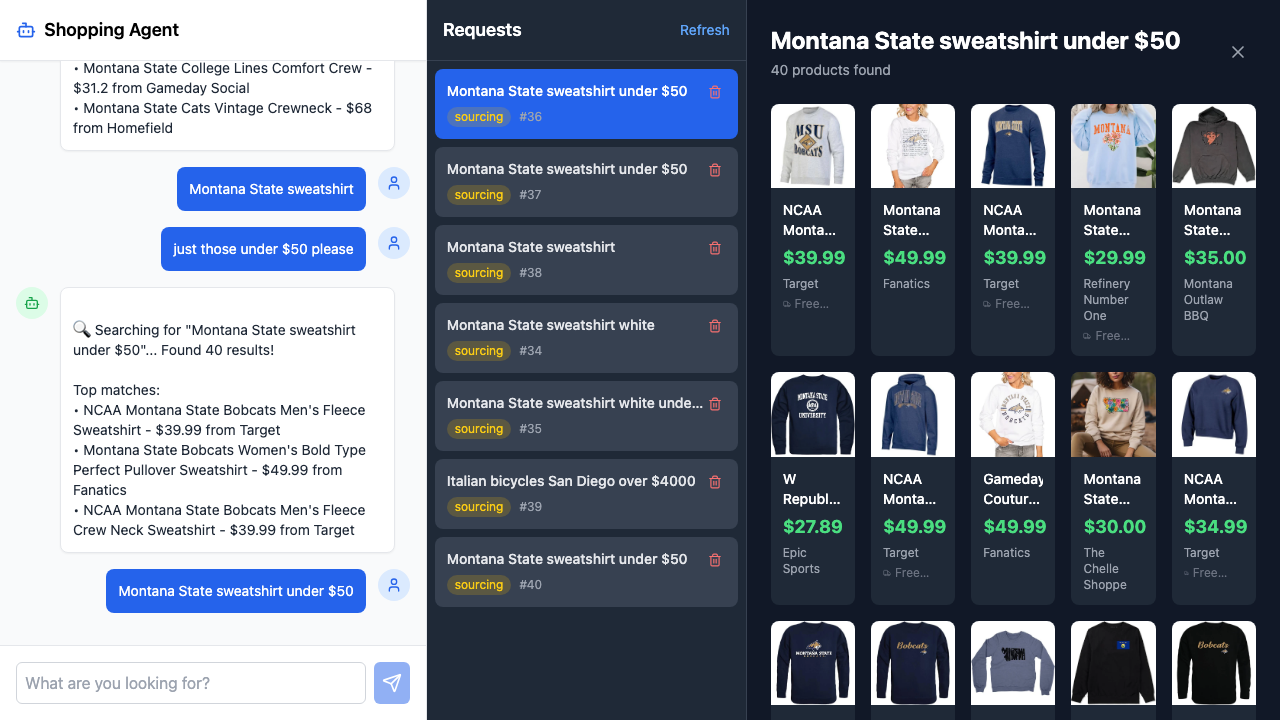
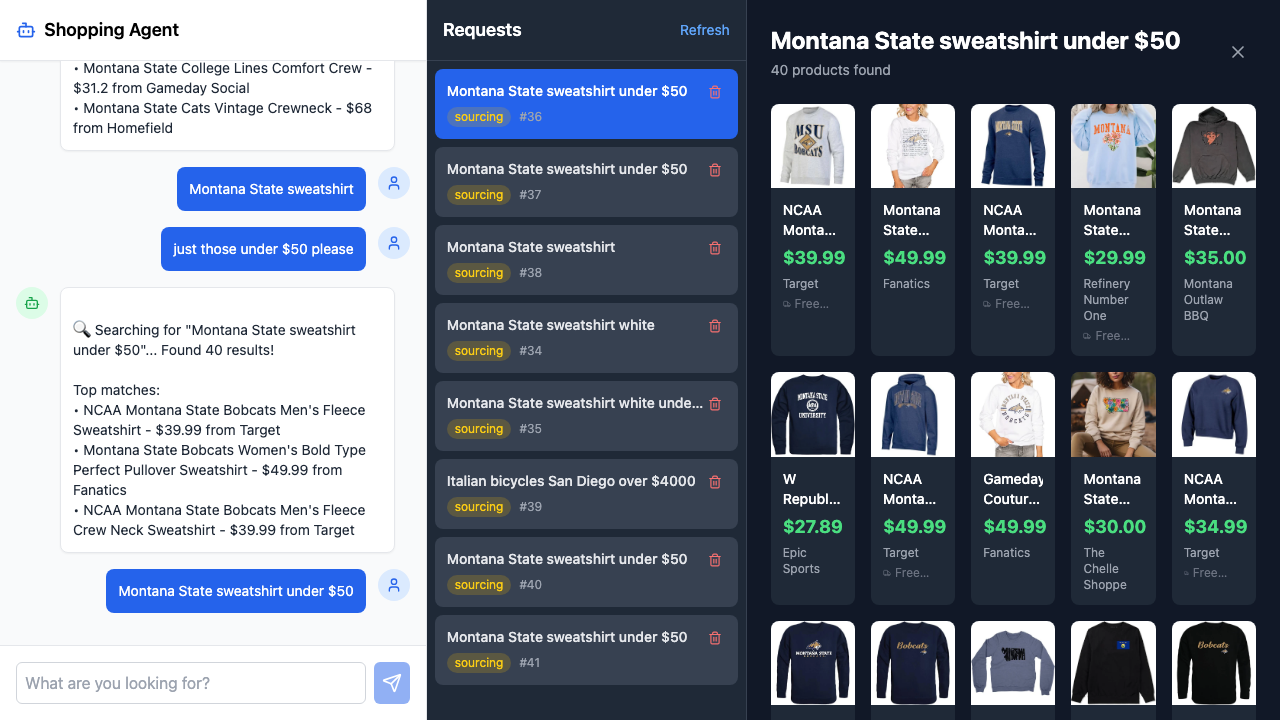
test: add regression tests for all 3 steps of Chat-Board sync flow

Changed region(s): [[0.3125, 0.8556, 0.5938, 0.9778]]

diff --git a/apps/frontend/app/components/Board.tsx b/apps/frontend/app/components/Board.tsx
@@ -1,11 +1,9 @@
 'use client';
 
-import { useState, useEffect } from 'react';
-import { Package, DollarSign, Trash2, Search, Star, Truck, X } from 'lucide-react';
-import { useShoppingStore, Row, Product } from '../store';
+import { Package, Search, Star, Truck, X } from 'lucide-react';
+import { useShoppingStore, Product } from '../store';
 
 export default function ProcurementBoard() {
-  const [loading, setLoading] = useState(true);
   const store = useShoppingStore();
 
   const selectedRow = store.rows.find(r => r.id === store.activeRowId) || null;
@@ -14,138 +12,9 @@ export default function ProcurementBoard() {
   const displayProducts = store.searchResults;
   const displayQuery = store.currentQuery || selectedRow?.title || '';
 
-  const fetchRows = async () => {
-    try {
-      const res = await fetch('/api/rows', { cache: 'no-store' });
-      if (res.ok) {
-        const data = await res.json();
-        store.setRows(Array.isArray(data) ? data : []);
-      }
-    } catch (e) {
-      console.error("Failed to fetch rows", e);
-    } finally {
-      setLoading(false);
-    }
-  };
-
-  const deleteRow = async (id: number) => {
-    try {
-      const res = await fetch(`/api/rows?id=${id}`, { method: 'DELETE' });
-      if (res.ok) {
-        store.removeRow(id);
-      }
-    } catch (e) {
-      console.error("Failed to delete row", e);
-    }
-  };
-
-  /**
-   * CARD CLICK FLOW (Step 3):
-   * 3a. User clicks a card
-   * 3b. The query is set in Zustand as the source of truth
-   * 3c. The text from the card is appended to the chat (via store update)
-   * 3d. We run the search
-   * 3e. Goto step 2 (continued chat flow)
-   */
-  const handleCardClick = async (row: Row) => {
-    if (store.activeRowId === row.id) return;
-    
-    console.log('[Board] === CARD CLICK FLOW START ===');
-    console.log('[Board] 3a. User clicked card:', row.id, row.title);
-
-    // 3b. Set query in Zustand as source of truth
-    store.setCurrentQuery(row.title);
-    store.setActiveRowId(row.id);
-    // 3c. Trigger chat append via cardClickQuery
-    store.setCardClickQuery(row.title);
-    console.log('[Board] 3b-3c. Zustand updated - query:', row.title, 'activeRowId:', row.id, 'cardClickQuery set');
-
-    // 3d. Run the search
-    console.log('[Board] 3d. Running search for:', row.title);
-    store.setIsSearching(true);
-    try {
-      const res = await fetch('/api/search', {
-        method: 'POST',
-        headers: { 'Content-Type': 'application/json' },
-        body: JSON.stringify({ query: row.title }),
-      });
-      if (res.ok) {
-        const data = await res.json();
-        console.log('[Board] Search returned:', data.results?.length || 0, 'products');
-        store.setSearchResults(data.results || []);
-      }
-    } catch (e) {
-      console.error('[Board] Search failed:', e);
-      store.setSearchResults([]);
-    }
-
-    console.log('[Board] === CARD CLICK FLOW END ===');
-    // 3e. Now the user can continue typing in chat (goto step 2)
-  };
-
-  useEffect(() => {
-    fetchRows();
-  }, []);
-
   return (
     <div className="flex-1 flex bg-gray-900 overflow-hidden">
-      {/* Left: Row List */}
-      <div className="w-80 bg-gray-800 border-r border-gray-700 flex flex-col">
-        <div className="p-4 border-b border-gray-700">
-          <div className="flex justify-between items-center">
-            <h2 className="text-lg font-semibold text-white">Requests</h2>
-            <button onClick={fetchRows} className="text-sm text-blue-400 hover:text-blue-300">
-              Refresh
-            </button>
-          </div>
-        </div>
-        
-        <div className="flex-1 overflow-y-auto p-2 space-y-2">
-          {loading && store.rows.length === 0 && (
-            <div className="text-center text-gray-500 py-10">Loading...</div>
-          )}
-
-          {!loading && store.rows.length === 0 && (
-            <div className="text-center text-gray-500 py-10">
-              <Package className="mx-auto h-8 w-8 text-gray-600 mb-2" />
-              <p className="text-sm">No requests yet</p>
-            </div>
-          )}
-
-          {store.rows.map((row: Row) => (
-            <div
-              key={row.id}
-              onClick={() => handleCardClick(row)}
-              className={`p-3 rounded-lg cursor-pointer transition-colors ${
-                selectedRow?.id === row.id 
-                  ? 'bg-blue-600 text-white' 
-                  : 'bg-gray-700 text-gray-200 hover:bg-gray-600'
-              }`}
-            >
-              <div className="flex justify-between items-start">
-                <h3 className="font-medium text-sm line-clamp-1">{row.title}</h3>
-                <button
-                  onClick={(e) => { e.stopPropagation(); deleteRow(row.id); }}
-                  className="p-1 hover:bg-red-500/20 rounded"
-                >
-                  <Trash2 size={14} className="text-red-400" />
-                </button>
-              </div>
-              <div className="flex items-center gap-2 mt-1">
-                <span className={`text-xs px-2 py-0.5 rounded-full ${
-                  row.status === 'sourcing' ? 'bg-yellow-500/20 text-yellow-400' : 
-                  row.status === 'closed' ? 'bg-green-500/20 text-green-400' : 'bg-gray-500/20 text-gray-400'
-                }`}>
-                  {row.status}
-                </span>
-                <span className="text-xs text-gray-400">#{row.id}</span>
-              </div>
-            </div>
-          ))}
-        </div>
-      </div>
-
-      {/* Right: Product Grid */}
+      {/* Product Grid */}
       <div className="flex-1 overflow-y-auto">
         {!store.currentQuery && !selectedRow && displayProducts.length === 0 && !store.isSearching ? (
           <div className="flex items-center justify-center h-full text-gray-500">

diff --git a/apps/frontend/app/components/RequestsSidebar.tsx b/apps/frontend/app/components/RequestsSidebar.tsx
@@ -1,7 +1,7 @@
 'use client';
 
 import { useState, useEffect } from 'react';
-import { Package, Trash2, ChevronLeft, ChevronRight, Menu } from 'lucide-react';
+import { Package, Trash2, ChevronLeft, Menu } from 'lucide-react';
 import { useShoppingStore, Row } from '../store';
 
 export default function RequestsSidebar() {
@@ -78,7 +78,7 @@ export default function RequestsSidebar() {
 
   if (!isExpanded) {
     return (
-      <div className="h-full bg-gray-800 border-r border-gray-700 flex flex-col items-center py-4 w-12 transition-all duration-300">
+      <div className="h-full bg-gray-800 border-r border-gray-700 flex flex-col items-center py-4 w-12 transition-all duration-300 shrink-0">
         <button 
           onClick={() => setIsExpanded(true)}
           className="p-2 text-gray-400 hover:text-white hover:bg-gray-700 rounded-lg"
@@ -91,7 +91,7 @@ export default function RequestsSidebar() {
   }
 
   return (
-    <div className="w-80 bg-gray-800 border-r border-gray-700 flex flex-col transition-all duration-300 h-full relative group">
+    <div className="w-80 bg-gray-800 border-r border-gray-700 flex flex-col transition-all duration-300 h-full relative group shrink-0">
       <div className="p-4 border-b border-gray-700">
         <div className="flex justify-between items-center">
           <h2 className="text-lg font-semibold text-white">Requests</h2>

diff --git a/apps/frontend/app/tests/chat-board-sync.test.ts b/apps/frontend/app/tests/chat-board-sync.test.ts
@@ -22,6 +22,20 @@ describe('Chat-Board Synchronization', () => {
     expect(state.activeRowId).toBe(31);
   });
 
+  test('Card click sets cardClickQuery to trigger chat append (Step 3c)', () => {
+    // Simulate card click flow from Board.tsx
+    useShoppingStore.getState().setCurrentQuery('Montana State shirts under $50');
+    useShoppingStore.getState().setActiveRowId(31);
+    useShoppingStore.getState().setCardClickQuery('Montana State shirts under $50');
+
+    const state = useShoppingStore.getState();
+    expect(state.cardClickQuery).toBe('Montana State shirts under $50');
+    
+    // After Chat.tsx processes it, it should be cleared
+    useShoppingStore.getState().setCardClickQuery(null);
+    expect(useShoppingStore.getState().cardClickQuery).toBeNull();
+  });
+
   test('selectOrCreateRow identifies existing row for extended query (Step 2)', () => {
     const store = useShoppingStore.getState();
     const rows = store.rows;

diff --git a/apps/frontend/e2e/chat-board-sync.spec.ts b/apps/frontend/e2e/chat-board-sync.spec.ts
@@ -90,8 +90,16 @@ test.describe('Chat-Board Synchronization Flow', () => {
     if (isInactiveVisible) {
       const cardTitleToClick = await inactiveCard.locator('h3').textContent({ timeout: 3000 }).catch(() => 'Unknown');
       console.log(`Clicking card: ${cardTitleToClick}`);
+      
+      // Listen for console logs
+      page.on('console', msg => {
+        if (msg.text().includes('[Chat]') || msg.text().includes('[Board]')) {
+          console.log(`BROWSER: ${msg.text()}`);
+        }
+      });
+      
       await inactiveCard.click();
-      await page.waitForTimeout(3000);
+      await page.waitForTimeout(5000); // Wait longer for state update
       
       // Verify the card's text was appended to chat
       const userMessagesAfter = await page.locator('div.bg-blue-600').count();

diff --git a/apps/frontend/app/page.tsx b/apps/frontend/app/page.tsx
@@ -2,14 +2,18 @@
 
 import Chat from './components/Chat';
 import ProcurementBoard from './components/Board';
+import RequestsSidebar from './components/RequestsSidebar';
 
 export default function Home() {
   return (
     <main className="flex h-screen w-full bg-white overflow-hidden">
-      {/* Chat Pane (Left) */}
+      {/* Requests Sidebar (Far Left) */}
+      <RequestsSidebar />
+
+      {/* Chat Pane (Center Left) */}
       <Chat />
       
-      {/* Board Pane (Right/Center) */}
+      {/* Board Pane (Right) */}
       <ProcurementBoard />
     </main>
   );
